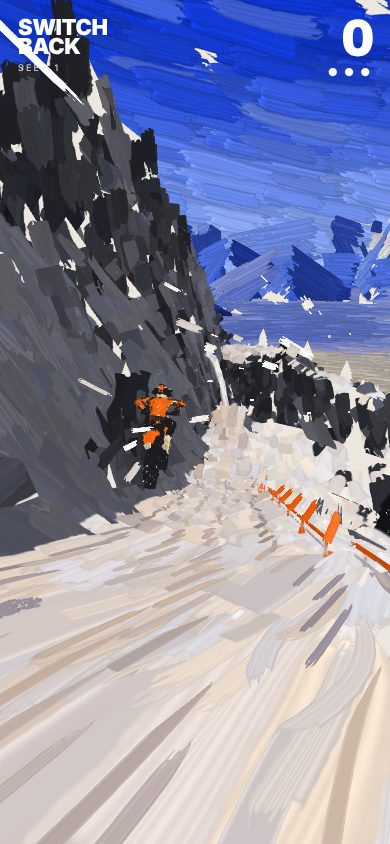
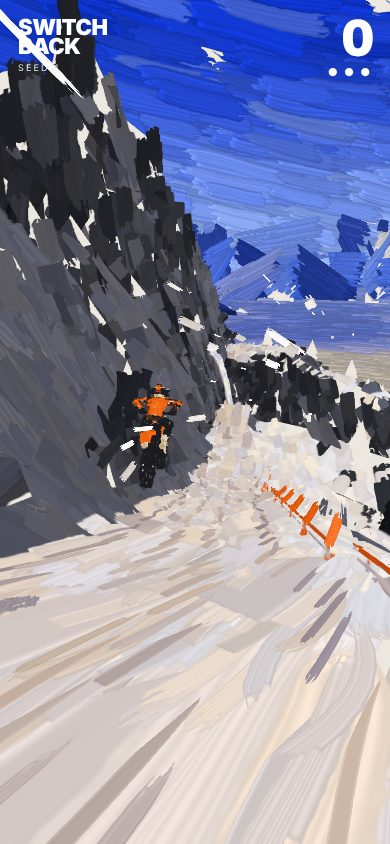
lab/switchback: flags in strokes, by distance
Near: strokes riding the cloth, tied to places on it, lit/shade with the wave.
Far: one flick gesture on a pole. Crossfade between.

Claude-Session: https://claude.ai/code/session_01XxjdrEubiC3ZZ3ppUeUc93

diff --git a/cells/lab/client/switchback/paint.ts b/cells/lab/client/switchback/paint.ts
@@ -19,7 +19,7 @@
  * is, its green the paint's relief (the ridges catch the light), its blue which of the stroke's two colours.
  */
 import type { Course } from './course';
-import { M, rangeProfiles, foothillProfiles, riverLine, fallPaths } from './mesh';
+import { M, rangeProfiles, foothillProfiles, riverLine, fallPaths, flagPaths } from './mesh';
 import { ground } from './ground';
 import { lines, plain, trackY } from './ruts';
 
@@ -493,6 +493,47 @@ export function fallStrokes(c: Course, s0: number, s1: number, t: number): Float
       const p = [base[0] + Math.cos(ang) * r, f.footY + 0.4 + (1.2 + R() * 2.5) * Math.sin(Math.PI * u * 0.8), base[2] + Math.sin(ang) * r];
       const sz = (0.5 + R() * 0.7) * (0.4 + u) * (1 - u * u);
       put(p, norm([Math.cos(ang), 0.6, Math.sin(ang)]), sz * 1.4, [0, 1, 0], sz, R(), [2, 3, 4, 3][Math.floor(R() * 4)], M.WHITE, R() < 0.7 ? 0 : 1);
+    }
+  }
+  return new Float32Array(out);
+}
+
+/** A flag in strokes, by how far off it is. Near (within ~25 m, gone by 40): strokes riding the cloth, four rows of
+ * them from the pole to the free end, four along each row, each tied to its own place on the cloth (not to a facet), so it
+ * moves with the wave and holds still on it; the wave in their colour, lit or in shade as the cloth turns to the sun
+ * or from it. Far (from ~20 m): the banner one gesture, a flick from the pole's top out along it, whipping thin to the
+ * free end, and a shorter one over it; what reads, a few pixels across, is an orange mark on a pole. Either way the pole
+ * one dark upright stroke. */
+export function flagStrokes(c: Course, s0: number, s1: number, t: number, eye: number[], sun: number[]): Float32Array {
+  const out: number[] = [];
+  const norm = (v: number[]) => { const l = Math.hypot(v[0], v[1], v[2]) || 1; return [v[0] / l, v[1] / l, v[2] / l]; };
+  const sub = (p: number[], q: number[]) => [p[0] - q[0], p[1] - q[1], p[2] - q[2]];
+  const put = (p: number[], T: number[], L: number, n: number[], W: number, seed: number, stamp: number, mt: number, band: number, bend = 0) => {
+    if (L <= 0.02 || W <= 0.02) return;
+    out.push(p[0], p[1], p[2], mt + 0.5, T[0], T[1], T[2], L, n[0], n[1], n[2], W, seed, stamp, bend, 3, NEVER, 10 + band, 1, 0);
+  };
+  const smooth = (a: number, b: number, x: number) => { const k = Math.max(0, Math.min(1, (x - a) / (b - a))); return k * k * (3 - 2 * k); };
+  for (const f of flagPaths(c, s0, s1, t)) {
+    const R = rng(f.i * 4421 + 7), d = Math.hypot(f.base[0] - eye[0], f.base[1] + 4 - eye[1], f.base[2] - eye[2]);
+    const wn = 1 - smooth(25, 40, d), wf = smooth(20, 34, d);
+    // (the pole)
+    put([f.base[0], f.base[1] + 3, f.base[2]], [0, 1, 0], 6.1, norm(sub(eye, f.base)), 0.16, R(), 0, M.BLACK, 1);
+    if (wn > 0) for (let r = 0; r < 4; r++) for (let k = 0; k < 4; k++) {
+      const v = (r + 0.5) / 4, a0 = k / 4 - 0.04, a1 = (k + 1) / 4 + 0.04, am = (a0 + a1) / 2;
+      const p0 = f.P(Math.max(0, a0), v), p1 = f.P(Math.min(1, a1), v), pm = f.P(am, v), T = norm(sub(p1, p0));
+      const du = sub(f.P(am + 0.02, v), f.P(am - 0.02, v)), dv = sub(f.P(am, v + 0.05), f.P(am, v - 0.05));
+      let n = norm([du[1] * dv[2] - du[2] * dv[1], du[2] * dv[0] - du[0] * dv[2], du[0] * dv[1] - du[1] * dv[0]]);
+      const e = sub(eye, pm); if (n[0] * e[0] + n[1] * e[1] + n[2] * e[2] < 0) n = [-n[0], -n[1], -n[2]];
+      const l = n[0] * sun[0] + n[1] * sun[1] + n[2] * sun[2], band = l > 0.55 ? 0 : l > 0.2 ? 1 : l > -0.15 ? 2 : 3;
+      // (its sag across the chord, as bend: the cloth's curve between its ends)
+      const chord = Math.hypot(...sub(p1, p0)), mid = [(p0[0] + p1[0]) / 2, (p0[1] + p1[1]) / 2, (p0[2] + p1[2]) / 2];
+      put(pm, T, chord * 1.1, n, (2.3 / 4) * 1.8 * wn, R(), [0, 1, 13, 9][Math.floor(R() * 4)], M.ORANGE, band, Math.max(-0.3, Math.min(0.3, (Math.hypot(...sub(pm, mid)) / Math.max(0.1, chord)) * 2 * (R() < 0.5 ? 1 : -1))));
+    }
+    if (wf > 0) {
+      const top = f.P(0, 0.3), end = f.P(1, 0.55), mid = f.P(0.5, 0.45), T = norm(sub(end, top)), n = norm(sub(eye, mid));
+      put(mid, T, Math.hypot(...sub(end, top)) * 1.15, n, 2.0 * wf, R(), 8, M.ORANGE, 1, 0.15);
+      const m2 = f.P(0.35, 0.2), e2 = f.P(0.75, 0.25);
+      put(m2, norm(sub(e2, f.P(0, 0.2))), Math.hypot(...sub(e2, f.P(0, 0.2))) * 0.9, n, 0.9 * wf, R(), 15, M.ORANGE, 0, -0.1);
     }
   }
   return new Float32Array(out);

diff --git a/cells/lab/client/switchback/render.ts b/cells/lab/client/switchback/render.ts
@@ -17,7 +17,7 @@ import type { Rider, Event } from './sim';
 import { GEARS } from './audio';
 import { buildRuts, Trail } from './ruts';
 import { buildGouges } from './gouge';
-import { Painter, Strokes, Brush2D, strokesOver, skyStrokes, lineOf, courseStrokes, rangeStrokes, foothillStrokes, valleyStrokes, fallStrokes } from './paint';
+import { Painter, Strokes, Brush2D, strokesOver, skyStrokes, lineOf, courseStrokes, rangeStrokes, foothillStrokes, valleyStrokes, fallStrokes, flagStrokes } from './paint';
 
 const VS = `#version 300 es
 in vec4 aP; uniform mat4 uVP; uniform vec3 uOff; uniform float uZj; out vec3 vW; flat out int vM;
@@ -234,7 +234,7 @@ export class Renderer {
       // (the ruts, the track, the flags and the falls are windows sliding along the way: their strokes seeded by place)
       // (not the gouges: they're cut to the eye, finer near it and broader away, so their faces change as you ride and
       // strokes on them couldn't hold still; the road's own strokes run along it instead)
-      const parts = [new Float32Array(0), strokesOver(trackV, 13, null, 4000, true, 0.1, true), shadowOn ? strokesOver(sh, 17, null, 4000, true, 0, true) : new Float32Array(0),  strokesOver(flagsV, 19, null, 6000, true, 1.5), fallStrokes(this.course, r.s - 30, r.s + 420, t), strokesOver(body, 29, null, 9000, true)];
+      const parts = [new Float32Array(0), strokesOver(trackV, 13, null, 4000, true, 0.1, true), shadowOn ? strokesOver(sh, 17, null, 4000, true, 0, true) : new Float32Array(0),  flagStrokes(this.course, r.s - 40, r.s + 320, t, view.eye, SUN), fallStrokes(this.course, r.s - 30, r.s + 420, t), strokesOver(body, 29, null, 9000, true)];
       const all = new Float32Array(parts.reduce((a, p) => a + p.length, 0)); let at = 0;
       for (const p of parts) { all.set(p, at); at += p.length; }
       if (!this.moving) this.moving = pt.make(all, true); else this.moving.set(all);

diff --git a/cells/lab/client/switchback/mesh.ts b/cells/lab/client/switchback/mesh.ts
@@ -286,7 +286,14 @@ function chevrons(c: Course, m: Mesh, s: number, ramp: boolean) {
 /** the flags' banners between stations s0 and s1, at time t: each an orange banner hung from the top of its pole out
  * over the shoulder, flying: waves running out along it, bigger toward its free end, which droops and trails back a
  * little; its facets catch the light and lose it as they turn, so it flickers between orange's bands as it moves */
-export function buildFlags(c: Course, s0: number, s1: number, t: number) {
+/** the flags between stations s0 and s1 at time t: each its pole's foot, and the point on its banner at a (0 at the pole,
+ * 1 its free end) and v (0 its top edge, 1 its bottom) */
+export function flagPaths(c: Course, s0: number, s1: number, t: number) {
+  const out: { i: number; base: number[]; P: (a: number, v: number) => number[] }[] = [];
+  buildFlags(c, s0, s1, t, (i, base, P) => out.push({ i, base, P }));
+  return out;
+}
+export function buildFlags(c: Course, s0: number, s1: number, t: number, each?: (i: number, base: number[], P: (a: number, v: number) => number[]) => void) {
   const m = new Mesh(true), W = 2.8, cols = 6, rows = 2;
   for (let i = Math.max(0, Math.floor(s0)); i < s1; i++) {
     const st = c.at(i); if (!st.flag) continue;
@@ -302,6 +309,7 @@ export function buildFlags(c: Course, s0: number, s1: number, t: number) {
       const across = (0.08 + 0.6 * a) * wave;
       return [base[0] + ox * out + nx * across, base[1] + up, base[2] + oz * out + nz * across];
     };
+    if (each) { each(i, base, P); continue; }
     for (let u = 0; u < cols; u++) for (let v = 0; v < rows; v++) {
       const a0 = u / cols, a1 = (u + 1) / cols, v0 = v / rows, v1 = (v + 1) / rows;
       m.tri(P(a0, v0), P(a1, v0), P(a1, v1), M.ORANGE, 0.5); m.tri(P(a0, v0), P(a1, v1), P(a0, v1), M.ORANGE, 0.5);

diff --git a/cells/lab/static/switchback.md b/cells/lab/static/switchback.md
@@ -119,6 +119,7 @@ An experiment in drawing the mountain as paint, after looking closely at a brush
 - **Nothing pops.** A stroke whose turn to be thinned out with distance comes shrinks away rather than going at once. What's built afresh each frame keeps its strokes: the rider by its faces, the flags and the falls by where they are; the gouges aren't painted (they're cut to the eye, so their faces change as you ride), the road's own strokes running along it instead.
 - **The speed in the marks, near the eye.** Within about 14 m of the eye (gone by 30 m), at pace every stroke turns, on its own face, toward the way the eye is going and draws out by as far as the eye goes in a moment (the eye's smoothed motion in the world: one way for every stroke, so they hold steady), so the ground and the rock just round you fall into line and stream past; further off the subject alone lays each stroke (`stretch=0` none, `stretch=2` twice). Your track and the rider's shadow are laid flat, as the ground is. The shadow lies on the road ahead and behind where it falls, not on a level plane at the rider's feet (which a slope going away left standing in the air).
 - **Strokes the course calls for.** Laid deliberately from the course, not scattered over faces, each lying on the surface (its normal the surface's own there): the road's two edges in long strokes following it, the drop's lip as a lit edge of snow, and the **ruts**, the worn lines down the road as `ruts.ts` has them, a step darker than the road (the gouges, cut to the eye each frame, can't be painted; these are the same lines, fixed to the course). No wall-foot shade: those strokes spiked out of the slope rather than lying on it. The rider's shadow is painted, flat on the road where it falls.
+- **Flags.** Painted by how far off they are. Near (within about 25 m, gone by 40): strokes riding the cloth, four rows from the pole to the free end, four along each, each tied to its own place on the cloth rather than to a facet (painted facet by facet, their strokes were reshaped every frame and shimmered), so they move with the wave and hold still on it; the wave in their colour, lit or in shade as the cloth turns to the sun. Far (from about 20 m): the banner one gesture, a flick from the pole's top out along it, whipping thin, and a shorter one over it, an orange mark on a pole that reads from far ahead. Between, one fades into the other. The pole is one dark upright stroke. (Seed 1 has flags at 155, 527, 899, 1395.)
 - **Waterfalls.** Not a ribbon but strokes in several sheets, one in front of another: the back one lilac-grey and dense (the water in shadow, covering the fall), white over it, a few pale blue in front; each a run of streaks sliding down the fall's arc with the water, drawn out by how fast it's falling where it is (short at the lip, long below), growing as it comes over and shrinking as it lands; a few strokes across the lip, glassy; spray at the foot, dabs thrown up and out, growing and fading. Built each frame, every streak keeping its place in the flow, so it moves with the water rather than flickering. (`at=<station>` puts you on the line at a station, for looking at a place: seed 1 has falls at 621, 813, 1186, 1629.)
 - **The far off.** In layers that recede, each further one hazed toward the sky's pale horizon: a snow massif (its crest broken by sub-summits and notches all along, not a row of cones), a nearer snowy range, a range of blue hills, four arcs of forested hills nearer, taller and darker the nearer, overlapping so they stack up the middle distance (the valley opening between them), then the valley's floor and its forested foothills. Under each summit a spur runs down toward you, wandering, with a branch or two leaving it down and outward (a shoulder sends a shorter one); under the crest the nearest spur decides a stroke's plane: the side of it the stroke is on faces that way, lit on the left, shaded on the right, the strokes running down and away from it, so the mountain splits into chevrons at more than one scale, and snow runs down the spurs' crests below the snow line. A stroke turns down a spur's plane only where its head, wherever it lands, stays under the crest there, and a stroke along the crest stays within its segment (run on, it carried on up past the summit). Each plane is one colour, decided when it's planned (lit or in shade by its side, snow or not), with a neighbouring colour streaked in now and then, and its strokes long: calm planes, not a flicker of light and dark stroke by stroke. A forest is painted over its hill's lower slopes: a dense dark band, its top serrated with close-set treetops, rising and falling along the hill. Each layer is painted by its form, not its faces: its crest simplified to the segments that matter (a summit, a shoulder, a long saddle), each segment painted in rows under it, every stroke sized by its segment, so a long flat saddle is a few long level strokes, not hundreds of identical ones (they made a ruled band of hatching), and a steep flank many shorter ones along the ridge, turning down the fall lower down; the strokes along the crest cut the skyline clean. Snow in streaks along the ridges and down the gullies above the snow line, warm where it's lit. Lit as a painter lights the far off, not by the sun: from the left of the way you look, so a peak always shows a lit flank and one in shade (by the sun, half the peaks were backlit). Painted in order, not by depth: the sky everywhere, the layers farthest first over it, so their strokes run over the skyline as a brush does; the valley's floor by depth (fields in patches of ochre, lavender and blues, laid level round the eye, broader further off; the river a thin pale line along it); the foothills over that, a dark forest band along each one's foot, its top ragged with treetops. The sky deepens from a pale horizon to the top in long calm strokes on one slant, with a few clouds, each a cluster of pale strokes lit above and shaded under. `bg=yaw,pitch,fov` shows the backdrop alone.
 - **The speed layer too.** Its shards, the smears off the posts, the air off the rider and the debris are laid with the same stamps, tinted: a wedge becomes a long stroke tapering the same way, a chip a dab.
